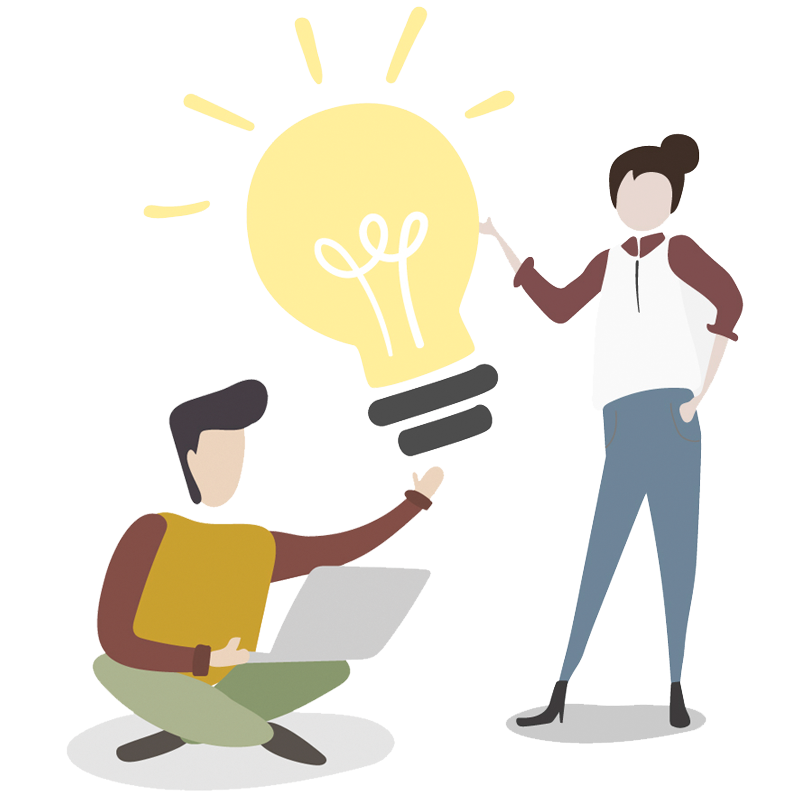
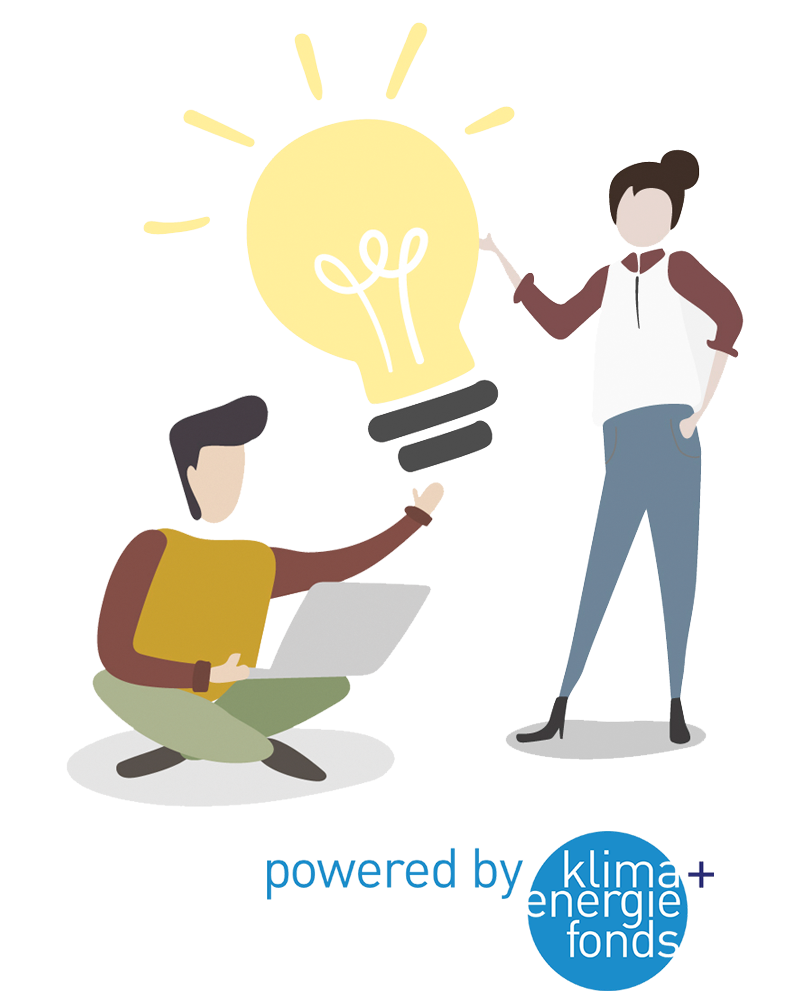
insert klimafonds

diff --git a/app/assets/stylesheets/controllers/_wien.scss b/app/assets/stylesheets/controllers/_wien.scss
@@ -116,12 +116,24 @@ section.wien {
         padding:35px 50px 35px 50px;
         @include font-size-primaryFont('large');
 
+        .poweredby {
+          margin-top:15px;
+          display: block;
+          text-align: center;
+          img {
+            width: 40%;
+          }
+        }
+
         @include respond-to(">=medium") {
           background-image: url(image_path('illu/eputoepu.png'));
           background-repeat: no-repeat;
           background-position: center right;
           background-size: 25% auto;
           padding-right: 23%;
+          .poweredby {
+            display: none;
+          }
         }
 
       }
